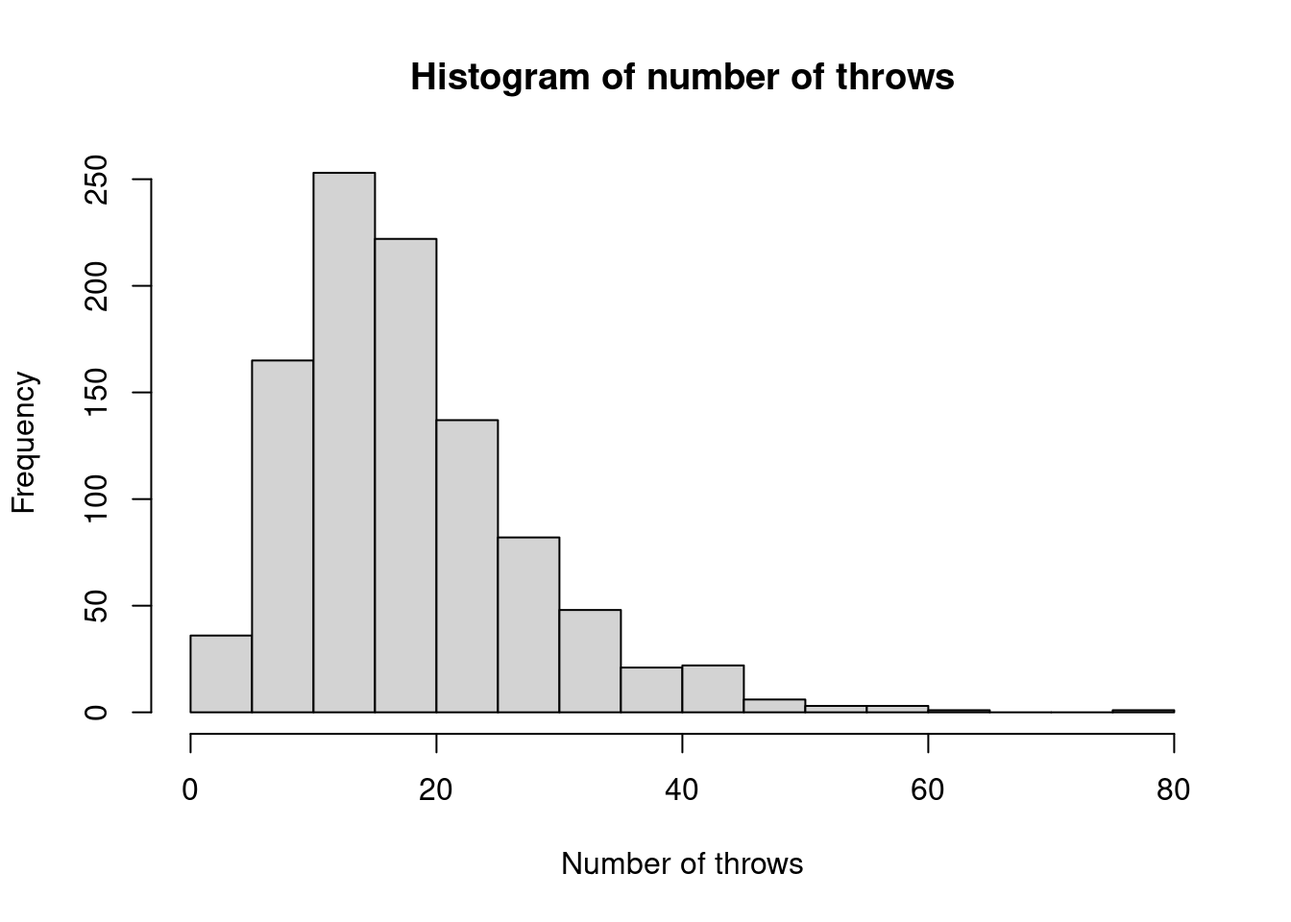
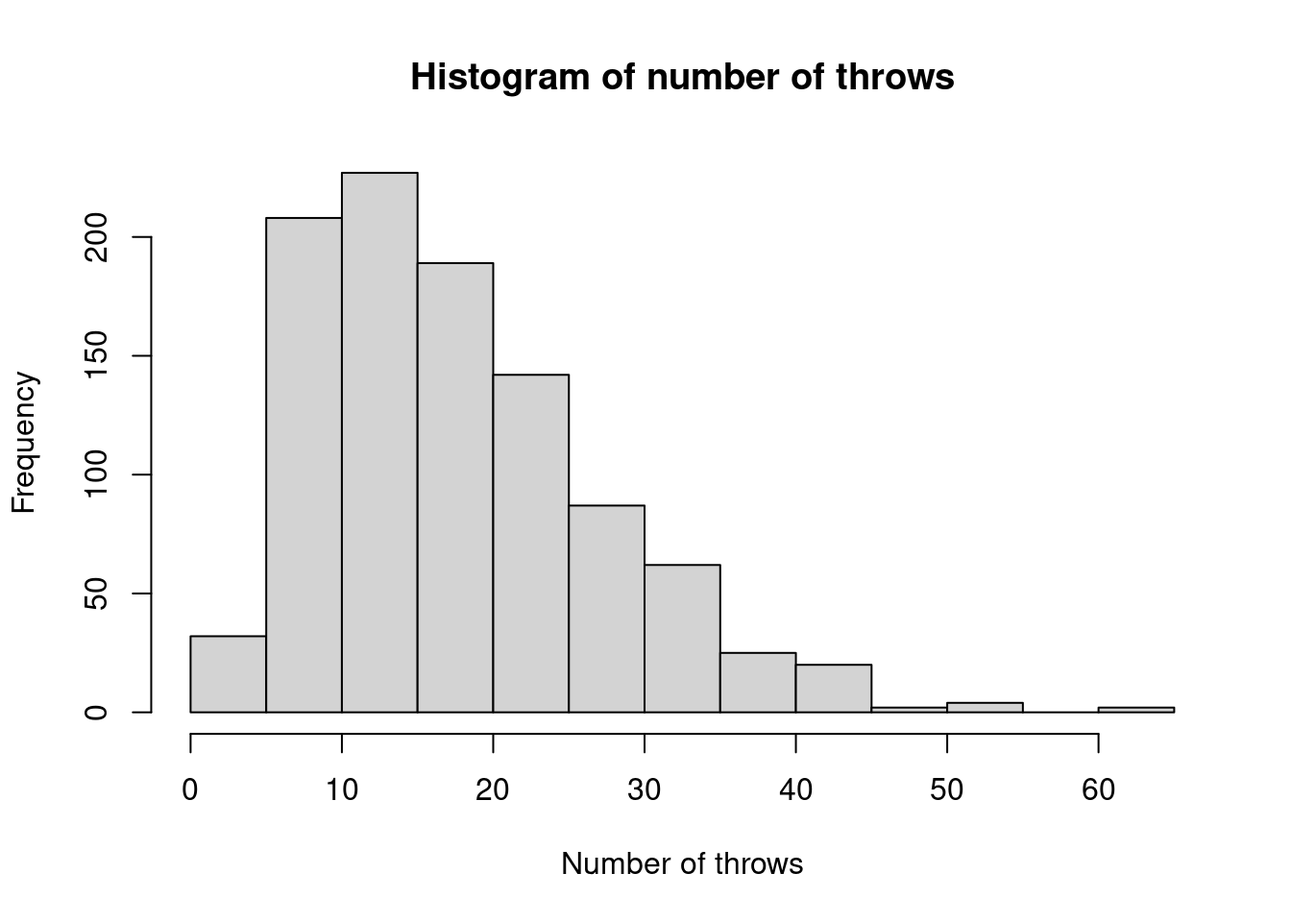
pdf compatible solutions

diff --git a/MTH3045/exercises/chapter-2-exercises.html b/MTH3045/exercises/chapter-2-exercises.html
@@ -250,21 +250,21 @@ For each of the above, consider whether your code could be simpler.</p>
 <span id="cb33-6"><a href="chapter-2-exercises.html#cb33-6" aria-hidden="true" tabindex="-1"></a>arr</span></code></pre></div>
 <pre><code>## , , 1
 ## 
-##            [,1]       [,2]        [,3]
-## [1,] -1.4653085  0.7465042 -0.16241346
-## [2,]  0.5665095 -0.7156693  0.74562490
-## [3,] -1.1994707  0.6199180 -0.62037716
-## [4,] -2.4363461 -1.0184756  0.03457799
-## [5,]  1.1568019  0.8875497 -1.75684630
+##            [,1]       [,2]       [,3]
+## [1,]  0.9548558 -1.0645368  1.1479174
+## [2,] -0.3946838 -0.1848147  0.3603800
+## [3,] -0.6090495  0.9670223 -0.6830955
+## [4,]  0.2371085  1.7868270 -1.0655477
+## [5,] -0.4625413 -0.5131653 -0.2517836
 ## 
 ## , , 2
 ## 
-##            [,1]       [,2]       [,3]
-## [1,] -0.5977675  0.4399714 -0.3282494
-## [2,] -1.9982918  0.3247352 -1.2417638
-## [3,] -1.3868200 -0.5604621 -1.3891624
-## [4,] -2.2924079 -0.6493762 -0.2125883
-## [5,] -0.6247716  0.3143209 -1.4116603
+##           [,1]        [,2]       [,3]
+## [1,]  1.170198  0.39148378  0.6897628
+## [2,]  1.446320  0.07134429  1.3810051
+## [3,] -1.065248 -0.95357931  1.0848352
+## [4,] -1.781933  1.56766954 -0.1478397
+## [5,] -1.114798  0.43198553  0.6524109
 ## 
 ## attr(,&quot;name&quot;)
 ## [1] &quot;array1&quot;</code></pre>
@@ -276,22 +276,22 @@ For each of the above, consider whether your code could be simpler.</p>
 <span id="cb35-2"><a href="chapter-2-exercises.html#cb35-2" aria-hidden="true" tabindex="-1"></a>arr[] <span class="ot">&lt;-</span> <span class="fu">runif</span>(<span class="fu">prod</span>(<span class="fu">dim</span>(arr))) <span class="co"># saves names to get the number right</span></span>
 <span id="cb35-3"><a href="chapter-2-exercises.html#cb35-3" aria-hidden="true" tabindex="-1"></a><span class="fu">apply</span>(arr, <span class="dv">2</span><span class="sc">:</span><span class="dv">3</span>, mean)</span></code></pre></div>
 <pre><code>##           [,1]      [,2]      [,3]      [,4]
-## [1,] 0.6934109 0.3761837 0.5536813 0.6714942
-## [2,] 0.4326945 0.5122968 0.6599447 0.4331556
-## [3,] 0.4731692 0.5021426 0.5046915 0.6310746
-## [4,] 0.6018185 0.5388985 0.6485609 0.4097974</code></pre>
+## [1,] 0.2933134 0.5520406 0.4432998 0.5607687
+## [2,] 0.5766747 0.5639929 0.3192070 0.6739240
+## [3,] 0.6844296 0.4779629 0.4668898 0.5330917
+## [4,] 0.3014321 0.4383904 0.4422503 0.5084173</code></pre>
 <div class="sourceCode" id="cb37"><pre class="sourceCode r"><code class="sourceCode r"><span id="cb37-1"><a href="chapter-2-exercises.html#cb37-1" aria-hidden="true" tabindex="-1"></a><span class="fu">rowMeans</span>(<span class="fu">aperm</span>(arr, <span class="fu">c</span>(<span class="dv">2</span>, <span class="dv">3</span>, <span class="dv">1</span>, <span class="dv">4</span>)), <span class="at">dims =</span> <span class="dv">2</span>)</span></code></pre></div>
 <pre><code>##           [,1]      [,2]      [,3]      [,4]
-## [1,] 0.6934109 0.3761837 0.5536813 0.6714942
-## [2,] 0.4326945 0.5122968 0.6599447 0.4331556
-## [3,] 0.4731692 0.5021426 0.5046915 0.6310746
-## [4,] 0.6018185 0.5388985 0.6485609 0.4097974</code></pre>
+## [1,] 0.2933134 0.5520406 0.4432998 0.5607687
+## [2,] 0.5766747 0.5639929 0.3192070 0.6739240
+## [3,] 0.6844296 0.4779629 0.4668898 0.5330917
+## [4,] 0.3014321 0.4383904 0.4422503 0.5084173</code></pre>
 <div class="sourceCode" id="cb39"><pre class="sourceCode r"><code class="sourceCode r"><span id="cb39-1"><a href="chapter-2-exercises.html#cb39-1" aria-hidden="true" tabindex="-1"></a><span class="fu">colMeans</span>(<span class="fu">aperm</span>(arr, <span class="fu">c</span>(<span class="dv">1</span>, <span class="dv">4</span>, <span class="dv">2</span>, <span class="dv">3</span>)), <span class="at">dims =</span> <span class="dv">2</span>)</span></code></pre></div>
 <pre><code>##           [,1]      [,2]      [,3]      [,4]
-## [1,] 0.6934109 0.3761837 0.5536813 0.6714942
-## [2,] 0.4326945 0.5122968 0.6599447 0.4331556
-## [3,] 0.4731692 0.5021426 0.5046915 0.6310746
-## [4,] 0.6018185 0.5388985 0.6485609 0.4097974</code></pre>
+## [1,] 0.2933134 0.5520406 0.4432998 0.5607687
+## [2,] 0.5766747 0.5639929 0.3192070 0.6739240
+## [3,] 0.6844296 0.4779629 0.4668898 0.5330917
+## [4,] 0.3014321 0.4383904 0.4422503 0.5084173</code></pre>
 <hr /></li>
 <li><ol style="list-style-type: lower-alpha">
 <li><p>Create a 3-element <code>list</code> of vectors comprising Uniform(0, 1) variates of length 3, 5 and 7, respectively.</p>
@@ -308,9 +308,9 @@ For each of the above, consider whether your code could be simpler.</p>
 <hr />
 <p><strong>Solution</strong></p>
 <div class="sourceCode" id="cb43"><pre class="sourceCode r"><code class="sourceCode r"><span id="cb43-1"><a href="chapter-2-exercises.html#cb43-1" aria-hidden="true" tabindex="-1"></a><span class="fu">sapply</span>(lst, min)</span></code></pre></div>
-<pre><code>## [1] 0.04357510 0.05222491 0.09165601</code></pre>
+<pre><code>## [1] 0.5233802 0.2054089 0.1609524</code></pre>
 <div class="sourceCode" id="cb45"><pre class="sourceCode r"><code class="sourceCode r"><span id="cb45-1"><a href="chapter-2-exercises.html#cb45-1" aria-hidden="true" tabindex="-1"></a><span class="fu">sapply</span>(lst, which.min)</span></code></pre></div>
-<pre><code>## [1] 3 3 1</code></pre>
+<pre><code>## [1] 2 2 2</code></pre>
 <hr /></li>
 </ol></li>
 <li><p>Use a <code>for()</code> loop to produce the following. [Hint: the function <code>paste()</code> might be useful.]</p>
@@ -403,14 +403,14 @@ Use a <code>while()</code> loop to find which converges to <code>pi</code> in <c
 <p>We see that both perform the same calculation.</p>
 <div class="sourceCode" id="cb55"><pre class="sourceCode r"><code class="sourceCode r"><span id="cb55-1"><a href="chapter-2-exercises.html#cb55-1" aria-hidden="true" tabindex="-1"></a>x <span class="ot">&lt;-</span> <span class="fu">runif</span>(<span class="dv">10</span>)</span>
 <span id="cb55-2"><a href="chapter-2-exercises.html#cb55-2" aria-hidden="true" tabindex="-1"></a><span class="fu">cumsum</span>(x)</span></code></pre></div>
-<pre><code>##  [1] 0.6273885 1.5902696 2.4972623 3.3010580 3.3711339 3.6740749 3.9915168
-##  [8] 4.5242048 4.6522091 5.0277999</code></pre>
+<pre><code>##  [1] 0.7076443 0.9191620 1.0941103 2.0028711 2.7072124 2.8444160 3.3598067
+##  [8] 4.1864378 4.9248497 5.9172807</code></pre>
 <div class="sourceCode" id="cb57"><pre class="sourceCode r"><code class="sourceCode r"><span id="cb57-1"><a href="chapter-2-exercises.html#cb57-1" aria-hidden="true" tabindex="-1"></a><span class="fu">my_cumsum</span>(x)</span></code></pre></div>
-<pre><code>##  [1] 0.6273885 1.5902696 2.4972623 3.3010580 3.3711339 3.6740749 3.9915168
-##  [8] 4.5242048 4.6522091 5.0277999</code></pre>
+<pre><code>##  [1] 0.7076443 0.9191620 1.0941103 2.0028711 2.7072124 2.8444160 3.3598067
+##  [8] 4.1864378 4.9248497 5.9172807</code></pre>
 <div class="sourceCode" id="cb59"><pre class="sourceCode r"><code class="sourceCode r"><span id="cb59-1"><a href="chapter-2-exercises.html#cb59-1" aria-hidden="true" tabindex="-1"></a><span class="fu">my_cumsum2</span>(x)</span></code></pre></div>
-<pre><code>##  [1] 0.6273885 1.5902696 2.4972623 3.3010580 3.3711339 3.6740749 3.9915168
-##  [8] 4.5242048 4.6522091 5.0277999</code></pre>
+<pre><code>##  [1] 0.7076443 0.9191620 1.0941103 2.0028711 2.7072124 2.8444160 3.3598067
+##  [8] 4.1864378 4.9248497 5.9172807</code></pre>
 <hr /></li>
 <li><p>Then benchmark its execution time against <code>R</code>’s vectorised function <code>cumsum()</code> for summing 1000 iid <span class="math inline">\(Uniform[0, 1]\)</span> random variables.</p>
 <hr />
@@ -423,9 +423,9 @@ Use a <code>while()</code> loop to find which converges to <code>pi</code> in <c
 <span id="cb61-6"><a href="chapter-2-exercises.html#cb61-6" aria-hidden="true" tabindex="-1"></a>)</span></code></pre></div>
 <pre><code>## Unit: nanoseconds
 ##           expr     min        lq       mean    median        uq      max neval
-##      cumsum(x)     767     872.0    1537.58    1148.5    1657.0     5369   100
-##   my_cumsum(x) 1784490 1837630.5 2467916.76 1908841.5 2095136.5 11677840   100
-##  my_cumsum2(x)   60056   61162.5   64485.54   63135.5   65558.5    97068   100</code></pre>
+##      cumsum(x)     777    1004.5    2924.74    1331.5    2718.0   103623   100
+##   my_cumsum(x) 1788247 1889002.5 2480169.75 1968696.5 2131968.0 12352073   100
+##  my_cumsum2(x)   60070   62843.5  104425.85   63956.0   68548.5  3887886   100</code></pre>
 <hr /></li>
 </ol></li>
 <li><ol style="list-style-type: lower-alpha">
@@ -451,11 +451,9 @@ Use a <code>while()</code> loop to find which converges to <code>pi</code> in <c
 <span id="cb64-2"><a href="chapter-2-exercises.html#cb64-2" aria-hidden="true" tabindex="-1"></a><span class="fu">table</span>(samp1)</span></code></pre></div>
 <pre><code>## samp1
 ##  3  4  5  6  7  8  9 10 11 12 13 14 15 16 17 18 19 20 21 22 23 24 25 26 27 28 
-##  6  5 25 25 33 25 35 47 63 48 46 43 53 43 51 44 48 36 30 24 31 26 26 16 16 17 
-## 29 30 31 32 33 34 35 36 37 38 39 40 41 42 43 44 45 46 47 50 51 53 56 57 60 63 
-## 21 12  9  9  8 12 10  5  3  4  8  1  5  2  5  3  7  2  3  1  2  1  1  1  1  1 
-## 79 
-##  1</code></pre>
+##  3  8 21 29 35 45 46 53 48 52 43 42 42 45 40 44 36 24 29 34 29 30 20 22 24 19 
+## 29 30 31 32 33 34 35 36 37 38 39 40 41 42 43 44 45 46 50 51 54 55 61 63 
+## 13  9 14 17 15  7  9  4  6  3  8  4  2  5  6  2  5  1  1  1  2  1  1  1</code></pre>
 <div class="sourceCode" id="cb66"><pre class="sourceCode r"><code class="sourceCode r"><span id="cb66-1"><a href="chapter-2-exercises.html#cb66-1" aria-hidden="true" tabindex="-1"></a><span class="fu">hist</span>(samp1, <span class="at">xlab =</span> <span class="st">&#39;Number of throws&#39;</span>, <span class="at">main =</span> <span class="st">&#39;Histogram of number of throws&#39;</span>)</span></code></pre></div>
 <div class="figure"><span style="display:block;" id="fig:q10b"></span>
 <img src="main_files/figure-html/q10b-1.png" alt="Histogram of empirical distribution of number of throws for starting method 1." width="672" />
@@ -484,7 +482,7 @@ Figure 2.1: Histogram of empirical distribution of number of throws for starting
 <span id="cb67-15"><a href="chapter-2-exercises.html#cb67-15" aria-hidden="true" tabindex="-1"></a><span class="fu">return</span>(<span class="fu">length</span>(out))</span>
 <span id="cb67-16"><a href="chapter-2-exercises.html#cb67-16" aria-hidden="true" tabindex="-1"></a>}</span>
 <span id="cb67-17"><a href="chapter-2-exercises.html#cb67-17" aria-hidden="true" tabindex="-1"></a><span class="fu">sixes2</span>()</span></code></pre></div>
-<pre><code>## [1] 19</code></pre>
+<pre><code>## [1] 6</code></pre>
 <hr /></li>
 <li><p>Then use 1000 simulations to empirically estimate the distribution of the number of throws needed.</p>
 <hr />
@@ -493,21 +491,21 @@ Figure 2.1: Histogram of empirical distribution of number of throws for starting
 <span id="cb69-2"><a href="chapter-2-exercises.html#cb69-2" aria-hidden="true" tabindex="-1"></a><span class="fu">table</span>(samp2)</span></code></pre></div>
 <pre><code>## samp2
 ##   2   3   4   5   6   7   8   9  10  11  12  13  14  15  16  17  18  19  20  21 
-##  27  20  21  24  24  13  21  30  22  19  18  27  30  15  16  20  14  10  19  16 
+##  21  23  24  17  25  20  21  25  17  28  21  27  17  22  15  17  15  16  10  16 
 ##  22  23  24  25  26  27  28  29  30  31  32  33  34  35  36  37  38  39  40  41 
-##  15  13   5  11  17  18  10  10  13  15  15   9  11  11   6  14   9   8  11   7 
+##  12  13  14  20   8  10  12  11  11  11  13   8   9  11  13   6   4   9  12  10 
 ##  42  43  44  45  46  47  48  49  50  51  52  53  54  55  56  57  58  59  60  61 
-##  11   8   6   5   7   7   8   7   5   6   9   5   5   4   5   4   6   6   9   7 
+##   6   9   9   5   7   4  12   2   9   8   5   4   5   9   6   5   4   5  10   4 
 ##  62  63  64  65  66  67  68  69  70  71  72  73  74  75  76  77  78  79  80  81 
-##   5   1   6   2   8   5   5   6   6   9   7   3   4   7   1   5   4   3   2   7 
-##  82  83  84  85  86  87  88  89  90  91  93  94  95  96  97  98  99 100 101 102 
-##   6   4   2   2   4   4   2   2   1   4   2   5   5   2   1   3   3   4   1   2 
-## 103 104 105 106 107 109 110 111 112 113 114 115 116 117 119 120 121 122 124 125 
-##   1   3   2   2   3   3   4   3   2   2   2   1   1   1   1   1   2   1   1   2 
-## 127 128 129 132 133 137 138 139 141 143 144 145 146 147 156 157 160 161 162 167 
-##   1   1   3   1   1   1   1   3   1   1   1   1   1   3   1   2   1   1   2   2 
-## 168 169 178 182 192 212 214 229 232 236 304 354 
-##   1   2   2   1   1   1   1   1   1   1   1   1</code></pre>
+##   6   5   5   9   7   7   7   7   6   3   4   5   3   6   7   3   6   3   5   2 
+##  82  83  84  85  86  87  88  89  90  91  92  93  94  95  96  97  98  99 100 101 
+##   5   3   3   4   6   3   4   3   3   2   2   3   6   3   3   3   4   3   2   1 
+## 102 103 104 105 107 108 109 110 112 113 114 115 116 117 119 120 121 124 125 127 
+##   3   1   2   5   6   1   2   1   1   2   1   3   1   2   2   1   2   3   1   1 
+## 128 129 130 135 136 138 139 141 143 144 145 146 147 151 154 158 163 167 174 180 
+##   1   1   1   2   1   1   4   2   1   1   1   1   2   1   2   2   2   1   2   1 
+## 184 188 195 197 211 214 216 218 231 241 252 272 289 304 
+##   1   1   1   1   2   1   1   1   1   1   1   1   1   1</code></pre>
 <div class="sourceCode" id="cb71"><pre class="sourceCode r"><code class="sourceCode r"><span id="cb71-1"><a href="chapter-2-exercises.html#cb71-1" aria-hidden="true" tabindex="-1"></a><span class="fu">hist</span>(samp2, <span class="at">xlab =</span> <span class="st">&#39;Number of throws&#39;</span>, <span class="at">main =</span> <span class="st">&#39;Histogram of number of throws&#39;</span>)</span></code></pre></div>
 <div class="figure"><span style="display:block;" id="fig:q10d"></span>
 <img src="main_files/figure-html/q10d-1.png" alt="Histogram of empirical distribution of number of throws for starting method 2." width="672" />
@@ -520,7 +518,7 @@ Figure 2.2: Histogram of empirical distribution of number of throws for starting
 <hr />
 <p><strong>Solution</strong></p>
 <div class="sourceCode" id="cb72"><pre class="sourceCode r"><code class="sourceCode r"><span id="cb72-1"><a href="chapter-2-exercises.html#cb72-1" aria-hidden="true" tabindex="-1"></a><span class="fu">mean</span>(samp1) <span class="sc">-</span> <span class="fu">mean</span>(samp2)</span></code></pre></div>
-<pre><code>## [1] -23.453</code></pre>
+<pre><code>## [1] -25.28</code></pre>
 <p>So the second approach, by comparing means, takes more throws before the game can begin.</p>
 <hr /></li>
 </ol></li>
@@ -555,9 +553,9 @@ where <span class="math inline">\({\bf x}&#39; = (x_1, \ldots, x_n)\)</span>.</p
 <span id="cb76-4"><a href="chapter-2-exercises.html#cb76-4" aria-hidden="true" tabindex="-1"></a>  <span class="fu">diff2</span>(x)</span>
 <span id="cb76-5"><a href="chapter-2-exercises.html#cb76-5" aria-hidden="true" tabindex="-1"></a>  )</span></code></pre></div>
 <pre><code>## Unit: microseconds
-##      expr    min     lq      mean  median     uq      max neval
-##  diff1(x) 58.658 60.683 116.09541 62.0565 63.481 5369.070   100
-##  diff2(x)  8.876  9.526  31.61542  9.8695 10.324 2148.697   100</code></pre>
+##      expr    min      lq     mean  median      uq      max neval
+##  diff1(x) 58.449 59.6900 99.16717 61.0005 62.2250 3823.733   100
+##  diff2(x)  8.221  8.7065 29.69553  8.9045  9.3535 2067.453   100</code></pre>
 <hr /></li>
 <li><p>The following function assesses whether all elements is a logical vector are <code>TRUE</code>.</p>
 <div class="sourceCode" id="cb78"><pre class="sourceCode r"><code class="sourceCode r"><span id="cb78-1"><a href="chapter-2-exercises.html#cb78-1" aria-hidden="true" tabindex="-1"></a>all2 <span class="ot">&lt;-</span> <span class="cf">function</span>(x) {</span>
@@ -581,9 +579,9 @@ where <span class="math inline">\({\bf x}&#39; = (x_1, \ldots, x_n)\)</span>.</p
 <span id="cb84-3"><a href="chapter-2-exercises.html#cb84-3" aria-hidden="true" tabindex="-1"></a>  <span class="fu">all</span>(x1)</span>
 <span id="cb84-4"><a href="chapter-2-exercises.html#cb84-4" aria-hidden="true" tabindex="-1"></a>)</span></code></pre></div>
 <pre><code>## Unit: microseconds
-##      expr    min      lq     mean  median      uq      max neval
-##  all2(x1)  4.981  5.1050 17.93344  5.1635  5.2415 1273.905   100
-##   all(x1) 11.338 11.3825 12.61851 11.4080 13.5805   47.332   100</code></pre>
+##      expr   min      lq     mean median      uq      max neval
+##  all2(x1)  4.98  5.1180 16.94979  5.168  5.2205 1182.745   100
+##   all(x1) 11.33 11.3695 12.07436 11.395 13.5735   13.751   100</code></pre>
 <p>We see that both take a similar amount of time.</p>
 <hr /></li>
 <li><p>Now swap the first element of <code>x1</code> so that it’s <code>FALSE</code> and repeat the benchmarking.</p>
@@ -599,9 +597,9 @@ where <span class="math inline">\({\bf x}&#39; = (x_1, \ldots, x_n)\)</span>.</p
 <span id="cb90-3"><a href="chapter-2-exercises.html#cb90-3" aria-hidden="true" tabindex="-1"></a>  <span class="fu">all</span>(x1)</span>
 <span id="cb90-4"><a href="chapter-2-exercises.html#cb90-4" aria-hidden="true" tabindex="-1"></a>)</span></code></pre></div>
 <pre><code>## Unit: nanoseconds
-##      expr  min     lq    mean median   uq   max neval
-##  all2(x1) 4747 4854.5 4996.45   4892 4927 13743   100
-##   all(x1)  121  131.0  178.81    167  182   533   100</code></pre>
+##      expr  min   lq    mean median     uq   max neval
+##  all2(x1) 4926 5048 5209.71   5093 5143.5 13979   100
+##   all(x1)  122  131  172.77    166  180.5   661   100</code></pre>
 <p>Now <code>all2()</code> is much slower. This is because it’s performed a calculation on the entire <code>x1</code> vector, whereas <code>all()</code> has stopped as soon as it’s found a <code>FALSE</code>.</p>
 <hr /></li>
 <li><p>Evaluate the function <code>any2()</code> below against <code>R</code>’s built-in function <code>any()</code> similarly.</p>
@@ -624,8 +622,8 @@ where <span class="math inline">\({\bf x}&#39; = (x_1, \ldots, x_n)\)</span>.</p
 <span id="cb97-4"><a href="chapter-2-exercises.html#cb97-4" aria-hidden="true" tabindex="-1"></a>)</span></code></pre></div>
 <pre><code>## Unit: microseconds
 ##      expr    min     lq     mean  median      uq      max neval
-##  any2(x2)  4.713  4.833 16.16296  4.9250  5.0695 1124.826   100
-##   any(x2) 12.974 13.011 13.59276 13.0445 13.5910   29.104   100</code></pre>
+##  any2(x2)  4.706  4.843 15.47448  4.8860  4.9555 1049.917   100
+##   any(x2) 12.966 12.990 13.12666 13.0085 13.0470   15.613   100</code></pre>
 <p>We again see that both take a similar amount of time.</p>
 <hr /></li>
 <li><p>Now swap the first element of <code>x2</code> so that it’s <code>FALSE</code> and repeat the benchmarking.</p>
@@ -637,9 +635,9 @@ where <span class="math inline">\({\bf x}&#39; = (x_1, \ldots, x_n)\)</span>.</p
 <span id="cb99-4"><a href="chapter-2-exercises.html#cb99-4" aria-hidden="true" tabindex="-1"></a>  <span class="fu">any</span>(x2)</span>
 <span id="cb99-5"><a href="chapter-2-exercises.html#cb99-5" aria-hidden="true" tabindex="-1"></a>)</span></code></pre></div>
 <pre><code>## Unit: nanoseconds
-##      expr  min   lq    mean median     uq   max neval
-##  any2(x2) 4883 5007 5217.20 5040.5 5073.0 22517   100
-##   any(x2)  129  138  172.28  159.5  172.5  1029   100</code></pre>
+##      expr  min     lq    mean median   uq   max neval
+##  any2(x2) 4658 4817.5 5131.69 4971.0 5041 15290   100
+##   any(x2)  115  129.0  177.97  189.5  201   694   100</code></pre>
 <p>This time <code>any2()</code> is much slower, for similar reasoning to <code>all2()</code> being much slower than <code>all()</code>, except that <code>any()</code> is stopped when it reaches a <code>TRUE</code>.</p>
 <hr /></li>
 </ol></li>

diff --git a/MTH3045/exercises/chapter-3-exercises.html b/MTH3045/exercises/chapter-3-exercises.html
@@ -179,13 +179,13 @@ code span.wa { color: #60a0b0; font-weight: bold; font-style: italic; } /* Warni
 <span id="cb103-4"><a href="chapter-3-exercises.html#cb103-4" aria-hidden="true" tabindex="-1"></a>)</span></code></pre></div>
 <pre><code>## Unit: milliseconds
 ##             expr      min       lq      mean   median        uq      max neval
-##       t(A) %*% B 5.802186 6.299671 10.833645 8.492901 14.357488 67.85177   100
-##  crossprod(A, B) 3.479351 3.559953  6.696952 4.068875  9.834708 49.20763   100</code></pre>
+##       t(A) %*% B 5.851787 6.503174 10.712587 8.627150 14.502633 60.52116   100
+##  crossprod(A, B) 3.480020 3.641372  6.420256 4.759719  9.671066 13.92022   100</code></pre>
 </details>
 <hr /></li>
 </ol></li>
 <li><p>Consider the calculation <span class="math inline">\(\mathbf{AD}\)</span> where <span class="math display">\[
-\mathbf{A} = \begin{pmatrix}0.27&amp;-1.86&amp;1.53&amp;0.09 \\0.85&amp;-1.46&amp;0.73&amp;0.49 \\-1.23&amp;0.43&amp;0.07&amp;-0.70 \\0.82&amp;0.36&amp;-1.16&amp;1.19 \\-0.60&amp;1.79&amp;1.72&amp;0.31 \\-0.39&amp;-0.01&amp;-0.31&amp;-0.35 \\\end{pmatrix} \text{  and  }\mathbf{D} = \begin{pmatrix}-0.67&amp;0.00&amp;0.00&amp;0.00 \\0.00&amp;0.12&amp;0.00&amp;0.00 \\0.00&amp;0.00&amp;-1.32&amp;0.00 \\0.00&amp;0.00&amp;0.00&amp;-0.40 \\\end{pmatrix}.
+\mathbf{A} = \begin{pmatrix}0.47&amp;0.26&amp;-1.30&amp;-0.20 \\0.86&amp;-0.55&amp;-0.35&amp;1.38 \\0.92&amp;-0.23&amp;0.11&amp;0.81 \\0.56&amp;-1.24&amp;-1.45&amp;-0.60 \\0.04&amp;1.27&amp;-0.70&amp;0.52 \\0.23&amp;-0.93&amp;-0.06&amp;-1.27 \\\end{pmatrix} \text{  and  }\mathbf{D} = \begin{pmatrix}0.96&amp;0.00&amp;0.00&amp;0.00 \\0.00&amp;-1.27&amp;0.00&amp;0.00 \\0.00&amp;0.00&amp;-2.17&amp;0.00 \\0.00&amp;0.00&amp;0.00&amp;0.75 \\\end{pmatrix}.
 \]</span> Write a function in <code>R</code> that takes a matrix <code>A</code> and a vector <code>d</code> as its arguments and computes <span class="math inline">\(\mathbf{AD}\)</span>, where <span class="math inline">\(\mathbf{A} =\)</span> <code>A</code> and <span class="math inline">\(\text{diag}(\mathbf{D}) =\)</span> <code>d</code>, and where <span class="math inline">\(\text{diag}(\mathbf{D})\)</span> denotes the vector comprising the diagonal elements of <span class="math inline">\(\mathbf{D}\)</span>. Consider whether your function is performing redundant calculations and, if it is, try and avoid them.</p>
 <hr />
 <details>
@@ -211,21 +211,21 @@ code span.wa { color: #60a0b0; font-weight: bold; font-style: italic; } /* Warni
 <span id="cb106-7"><a href="chapter-3-exercises.html#cb106-7" aria-hidden="true" tabindex="-1"></a>}</span></code></pre></div>
 <p>and the following confirms that both give the same result</p>
 <div class="sourceCode" id="cb107"><pre class="sourceCode r"><code class="sourceCode r"><span id="cb107-1"><a href="chapter-3-exercises.html#cb107-1" aria-hidden="true" tabindex="-1"></a><span class="fu">AD</span>(A, <span class="fu">diag</span>(D))</span></code></pre></div>
-<pre><code>##         [,1]    [,2]    [,3]   [,4]
-## [1,] -0.1809 -0.2232 -2.0196 -0.036
-## [2,] -0.5695 -0.1752 -0.9636 -0.196
-## [3,]  0.8241  0.0516 -0.0924  0.280
-## [4,] -0.5494  0.0432  1.5312 -0.476
-## [5,]  0.4020  0.2148 -2.2704 -0.124
-## [6,]  0.2613 -0.0012  0.4092  0.140</code></pre>
+<pre><code>##        [,1]    [,2]    [,3]    [,4]
+## [1,] 0.4512 -0.3302  2.8210 -0.1500
+## [2,] 0.8256  0.6985  0.7595  1.0350
+## [3,] 0.8832  0.2921 -0.2387  0.6075
+## [4,] 0.5376  1.5748  3.1465 -0.4500
+## [5,] 0.0384 -1.6129  1.5190  0.3900
+## [6,] 0.2208  1.1811  0.1302 -0.9525</code></pre>
 <div class="sourceCode" id="cb109"><pre class="sourceCode r"><code class="sourceCode r"><span id="cb109-1"><a href="chapter-3-exercises.html#cb109-1" aria-hidden="true" tabindex="-1"></a><span class="fu">AdiagD</span>(A, <span class="fu">diag</span>(D))</span></code></pre></div>
-<pre><code>##         [,1]    [,2]    [,3]   [,4]
-## [1,] -0.1809 -0.2232 -2.0196 -0.036
-## [2,] -0.5695 -0.1752 -0.9636 -0.196
-## [3,]  0.8241  0.0516 -0.0924  0.280
-## [4,] -0.5494  0.0432  1.5312 -0.476
-## [5,]  0.4020  0.2148 -2.2704 -0.124
-## [6,]  0.2613 -0.0012  0.4092  0.140</code></pre>
+<pre><code>##        [,1]    [,2]    [,3]    [,4]
+## [1,] 0.4512 -0.3302  2.8210 -0.1500
+## [2,] 0.8256  0.6985  0.7595  1.0350
+## [3,] 0.8832  0.2921 -0.2387  0.6075
+## [4,] 0.5376  1.5748  3.1465 -0.4500
+## [5,] 0.0384 -1.6129  1.5190  0.3900
+## [6,] 0.2208  1.1811  0.1302 -0.9525</code></pre>
 </details>
 <hr /></li>
 <li><p>The following function generates an arbitrary <span class="math inline">\(n \times n\)</span> positive definite matrix.</p>
@@ -743,17 +743,17 @@ is the Cauchy determinant.</p>
 <span id="cb210-9"><a href="chapter-3-exercises.html#cb210-9" aria-hidden="true" tabindex="-1"></a>)</span></code></pre></div>
 <pre><code>## Unit: microseconds
 ##                           expr      min        lq      mean    median        uq
-##                     chol(H100)  158.147  177.8125  239.5708  190.4120  207.3110
-##  eigen(H100, symmetric = TRUE) 1994.426 2143.6760 2336.9020 2196.4680 2289.5160
-##                    eigen(H100) 2578.742 2777.4505 3154.9031 2854.8945 2948.4590
-##                      svd(H100) 1868.959 1927.5980 2152.4559 1966.1075 2019.8740
-##                       qr(H100)  294.323  401.9580  480.7552  416.8005  430.3285
+##                     chol(H100)  156.931  182.0810  275.6008  193.8295  212.8500
+##  eigen(H100, symmetric = TRUE) 2141.889 2226.3190 2656.5709 2270.2450 2333.6105
+##                    eigen(H100) 2705.637 2817.6025 3482.0994 2882.4475 2997.2715
+##                      svd(H100) 1866.969 1936.9180 2203.0563 1982.4795 2034.9930
+##                       qr(H100)  366.860  399.4255  474.9336  416.3165  422.7055
 ##        max neval
-##   3917.162   100
-##   4804.178   100
-##  17084.884   100
-##   4970.087   100
-##   4113.627   100</code></pre>
+##   4727.357   100
+##  17443.212   100
+##  19703.368   100
+##   7524.633   100
+##   3781.006   100</code></pre>
 <p>If we consider median computation times, we see that the Cholesky decomposition is quickest, at nearly six times quicker than the QR decomposition, which is next quickest. The QR decomposition is then about just under three times quicker than the symmetric eigen-decomposition, which takes about the same amount of time as the singular value decomposition. The asymmetric eigen-decomposition is slowest, and demonstrates that <em>if</em> we know the matrix we want an eigen-decomposition of is symmetric, then we should pass this information to <code>R</code>.</p>
 <div class="remark">
 <p><span id="unlabeled-div-1" class="remark"><em>Remark</em>. </span>The following shows us that if we only want the eigenvalues of a symmetric matrix, then we can further save times by specifying <code>only.values = TRUE</code>.</p>
@@ -765,11 +765,11 @@ is the Cauchy determinant.</p>
 <span id="cb212-5"><a href="chapter-3-exercises.html#cb212-5" aria-hidden="true" tabindex="-1"></a>)</span></code></pre></div>
 <pre><code>## Unit: microseconds
 ##                                               expr      min       lq     mean
-##                      eigen(H100, symmetric = TRUE) 2024.251 2165.044 2332.843
-##  eigen(H100, symmetric = TRUE, only.values = TRUE)  934.195 1013.541 1073.299
-##    median       uq      max neval
-##  2203.240 2260.336 4755.908   100
-##  1041.437 1084.744 2882.368   100</code></pre>
+##                      eigen(H100, symmetric = TRUE) 2078.893 2193.314 2523.545
+##  eigen(H100, symmetric = TRUE, only.values = TRUE)  962.209 1039.895 1109.125
+##   median       uq       max neval
+##  2229.80 2300.621 14925.880   100
+##  1066.92 1091.383  3110.109   100</code></pre>
 </details>
 <hr /></li>
 <li><p>Given that <span class="math display">\[\mathbf{A} = \begin{pmatrix}1.23&amp;0.30&amp;2.58 \\0.30&amp;0.43&amp;1.92 \\2.58&amp;1.92&amp;10.33 \\\end{pmatrix},~\mathbf{A}^{-1} = \begin{pmatrix}6.9012&amp;16.9412&amp;-4.8724 \\16.9412&amp;55.2602&amp;-14.5022 \\-4.8724&amp;-14.5022&amp;4.0092 \\\end{pmatrix},\]</span> <span class="math display">\[\mathbf{B} = \begin{pmatrix}1.49&amp;0.40&amp;2.76 \\0.40&amp;0.53&amp;2.16 \\2.76&amp;2.16&amp;11.20 \\\end{pmatrix},\]</span> and that <span class="math inline">\(\mathbf{B} = \mathbf{A} + \mathbf{LL}^{\text{T}}\)</span>, where <span class="math inline">\(\mathbf{L}\)</span> is a lower-triangular matrix, find <span class="math inline">\(\mathbf{B}^{-1}\)</span> using Woodbury’s formula, i.e. using <span class="math display">\[(\mathbf{A} + \mathbf{UV}^{\text{T}})^{-1} = \mathbf{A}^{-1} - \mathbf{A}^{-1} \mathbf{U} (\mathbf{I}_n + \mathbf{V}^{\text{T}} \mathbf{A}^{-1} \mathbf{U})^{-1} \mathbf{V}^{\text{T}} \mathbf{A}^{-1}. \]</span></p>

diff --git a/MTH3045/exercises/index.html b/MTH3045/exercises/index.html
@@ -179,7 +179,7 @@ Note than <code>sum()</code> may be used.</li>
 <span id="cb1-10"><a href="index.html#cb1-10" aria-hidden="true" tabindex="-1"></a>}</span>
 <span id="cb1-11"><a href="index.html#cb1-11" aria-hidden="true" tabindex="-1"></a></span>
 <span id="cb1-12"><a href="index.html#cb1-12" aria-hidden="true" tabindex="-1"></a><span class="fu">mean2</span>(y)</span></code></pre></div>
-<pre><code>## [1] 1.925337</code></pre>
+<pre><code>## [1] 1.38488</code></pre>
 <div class="sourceCode" id="cb3"><pre class="sourceCode r"><code class="sourceCode r"><span id="cb3-1"><a href="index.html#cb3-1" aria-hidden="true" tabindex="-1"></a><span class="co"># check it works</span></span>
 <span id="cb3-2"><a href="index.html#cb3-2" aria-hidden="true" tabindex="-1"></a><span class="fu">all.equal</span>(<span class="fu">mean</span>(y), <span class="fu">mean2</span>(y))</span></code></pre></div>
 <pre><code>## [1] TRUE</code></pre>
@@ -193,7 +193,7 @@ Note than <code>sum()</code> may be used.</li>
 <span id="cb5-8"><a href="index.html#cb5-8" aria-hidden="true" tabindex="-1"></a>}</span>
 <span id="cb5-9"><a href="index.html#cb5-9" aria-hidden="true" tabindex="-1"></a></span>
 <span id="cb5-10"><a href="index.html#cb5-10" aria-hidden="true" tabindex="-1"></a><span class="fu">var2</span>(y)</span></code></pre></div>
-<pre><code>## [1] 11.21609</code></pre>
+<pre><code>## [1] 4.264027</code></pre>
 <div class="sourceCode" id="cb7"><pre class="sourceCode r"><code class="sourceCode r"><span id="cb7-1"><a href="index.html#cb7-1" aria-hidden="true" tabindex="-1"></a><span class="co"># check it works</span></span>
 <span id="cb7-2"><a href="index.html#cb7-2" aria-hidden="true" tabindex="-1"></a><span class="fu">all.equal</span>(<span class="fu">var</span>(y), <span class="fu">var2</span>(y))</span></code></pre></div>
 <pre><code>## [1] TRUE</code></pre>
@@ -206,7 +206,7 @@ Note than <code>sum()</code> may be used.</li>
 <span id="cb9-7"><a href="index.html#cb9-7" aria-hidden="true" tabindex="-1"></a>}</span>
 <span id="cb9-8"><a href="index.html#cb9-8" aria-hidden="true" tabindex="-1"></a></span>
 <span id="cb9-9"><a href="index.html#cb9-9" aria-hidden="true" tabindex="-1"></a><span class="fu">sd2</span>(y)</span></code></pre></div>
-<pre><code>## [1] 3.349043</code></pre>
+<pre><code>## [1] 2.064952</code></pre>
 <div class="sourceCode" id="cb11"><pre class="sourceCode r"><code class="sourceCode r"><span id="cb11-1"><a href="index.html#cb11-1" aria-hidden="true" tabindex="-1"></a><span class="co"># check it works</span></span>
 <span id="cb11-2"><a href="index.html#cb11-2" aria-hidden="true" tabindex="-1"></a><span class="fu">all.equal</span>(<span class="fu">sd</span>(y), <span class="fu">sd2</span>(y))</span></code></pre></div>
 <pre><code>## [1] TRUE</code></pre>
